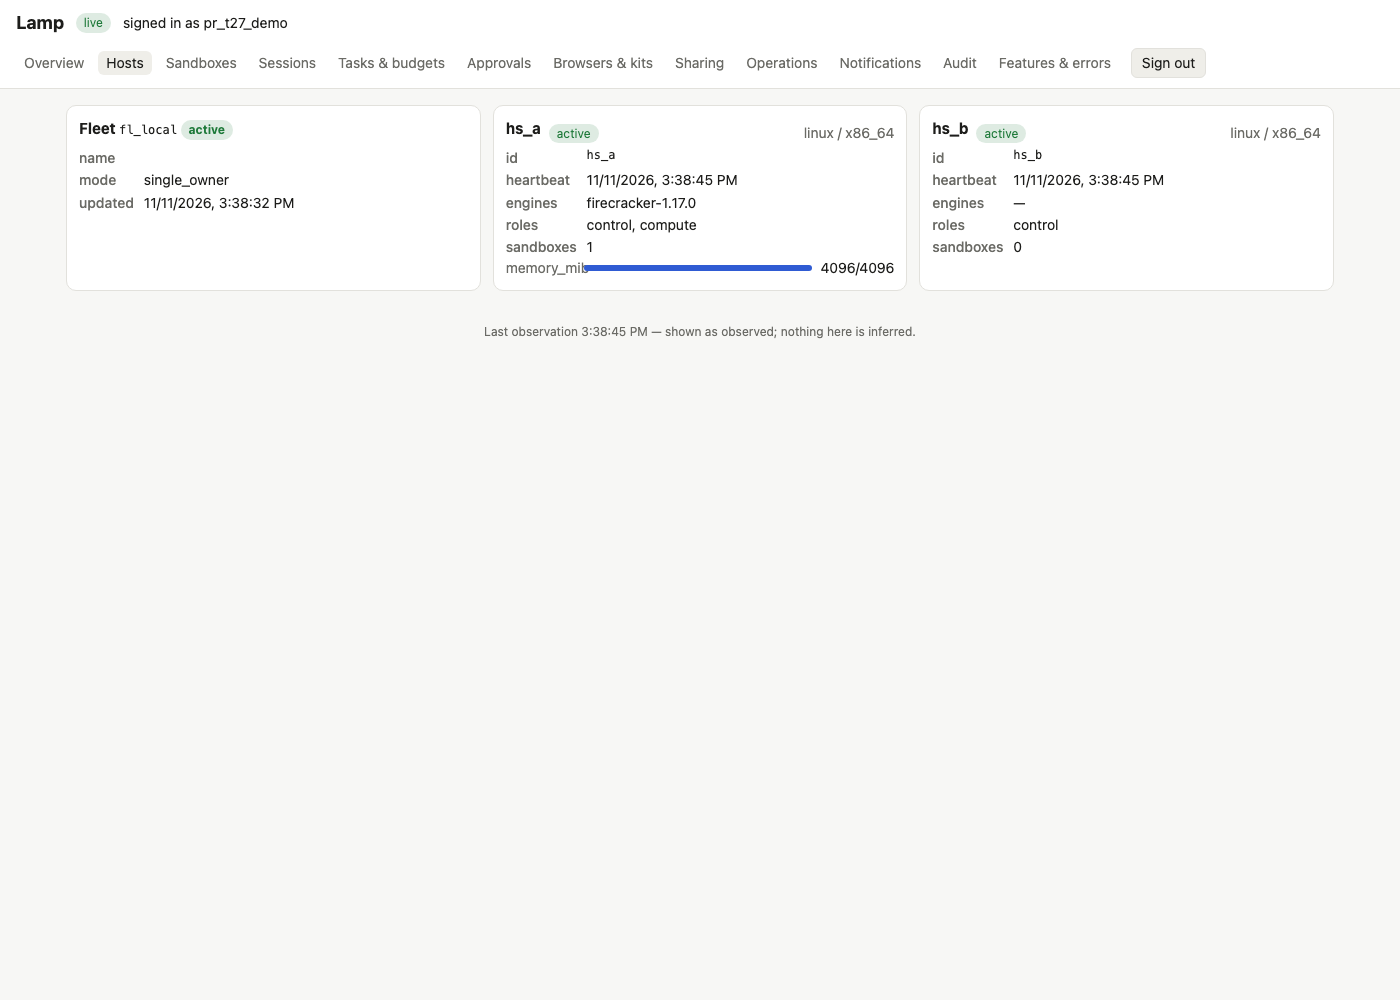
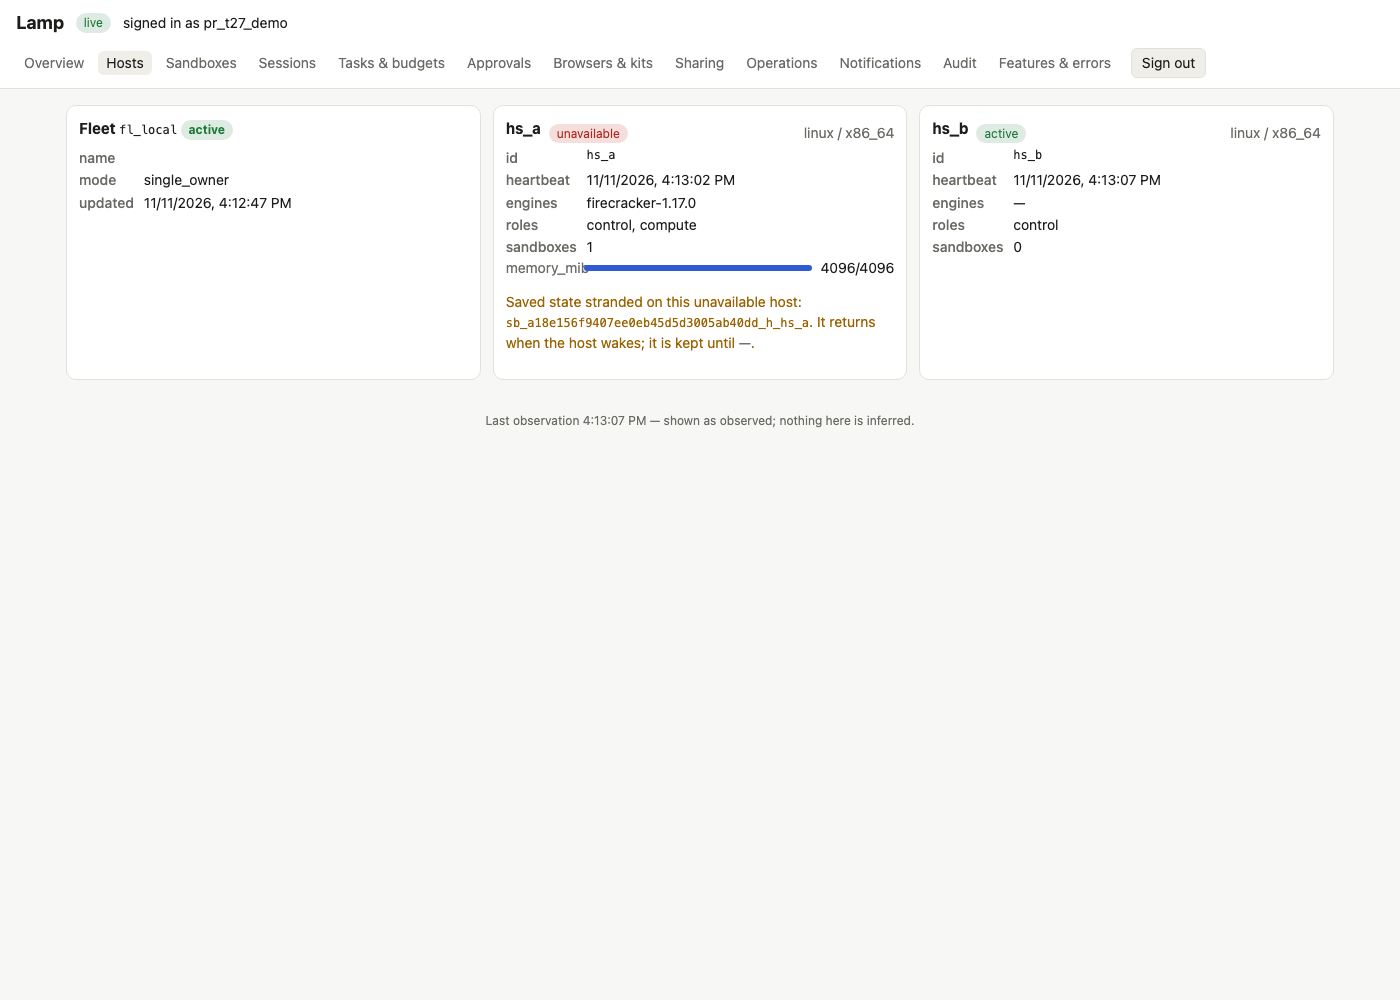
T27: two-host stranded saved-state evidence, CDP driver fails fast on a dropped tunnel

diff --git a/docs/development/T27-evidence.md b/docs/development/T27-evidence.md
@@ -24,8 +24,19 @@ Two runs of `tools/dashboard_demo.py` on the Ubuntu laptop (LX), 2026-11-11. Bot
 | Inspectable retries, acknowledgement | `run28/08-notifications-retries.png`, `run28/09-retry-acknowledged.png`: offline sink, 4 attempts with errors, manual retry, acknowledged |
 | Private signed-in action links | links are `PublicURL/#/…` without credentials; opening one signed out asks to sign in |
 
+## Review follow-up (runs 29 and fleet-4, current build)
+
+- **Browser VM had no network on this branch's supervisor (run 27).** The cause was my merge of T22 into this branch. It dropped T22's "vanished process" handling from `status()` in `crates/lamp-guard/src/process.rs`, so the guard failed whenever a short-lived browser process exited before it was observed. With that arm restored, **run 29** (`transcript-run29.jsonl`, `run29/`) used the supervisor and guard built from this branch. It went through the full journey: private takeover with the sealed view of the-internet.herokuapp.com (`run29/04-private-takeover.png`, `run29/06-approved-fill-result.png`), the approval consumed, and suspend.
+- **Stuck.** A budget watchdog (`block_after_ms`) that ends a task which never finished now marks the task `blocked` rather than `stopped`. In run 29, a task with a 20 s watchdog became `blocked`, and the phone sink received a signed `task.stuck` webhook (`run29/07b-task-stuck.png`, step "stuck task and webhook").
+- **Multi-host** (`tools/dashboard_fleet_demo.py`, `transcript-fleet.jsonl`, `fleet/`). Two lampd hosts formed one enrolled fleet, with a private CA and mTLS on loopback:
+  - hs_a was compute, using this branch's supervisor.
+  - hs_b was control-only and served the dashboard.
+  - hs_b's page listed both hosts and hs_a's sandbox (`fleet/f1-hosts-from-b.png`).
+  - hs_a held a suspended sandbox's saved state and was put to sleep by stopping its lampd. hs_b's page then showed hs_a `unavailable`, with "Saved state stranded on this unavailable host" (`fleet/f2-stranded-saved-state.png`), and the sandbox page explained why it could not resume (`fleet/f3-stranded-sandbox.png`).
+  - hs_a then woke, and the sandbox was deleted.
+  - Two fixes this needed: the fleet cache now keeps a sleeping host's suspended sandbox as `suspended` instead of `unavailable`, and the page re-reads its lists every 10 s, because a sleeping peer cannot emit an event.
+  - Remaining gap: the retention end date for the stranded state shows "—" on hs_b, because the countdown fields are computed on the sandbox's home host and are not in the fleet-merged copy.
+
 ## Not shown live
 
-- Saved state stranded on a sleeping host. The page renders it from host status, but this demo had a fleet of one host.
-- `task.stuck` delivery. It is wired to a blocked task, but no task was blocked in these runs.
-- Browser steps with the rebuilt supervisor. The guest has no network there (see above), so the browser evidence comes from run 26.
+- Nothing further. The earlier gaps (multi-host, stuck and current-build browser) are covered above.
